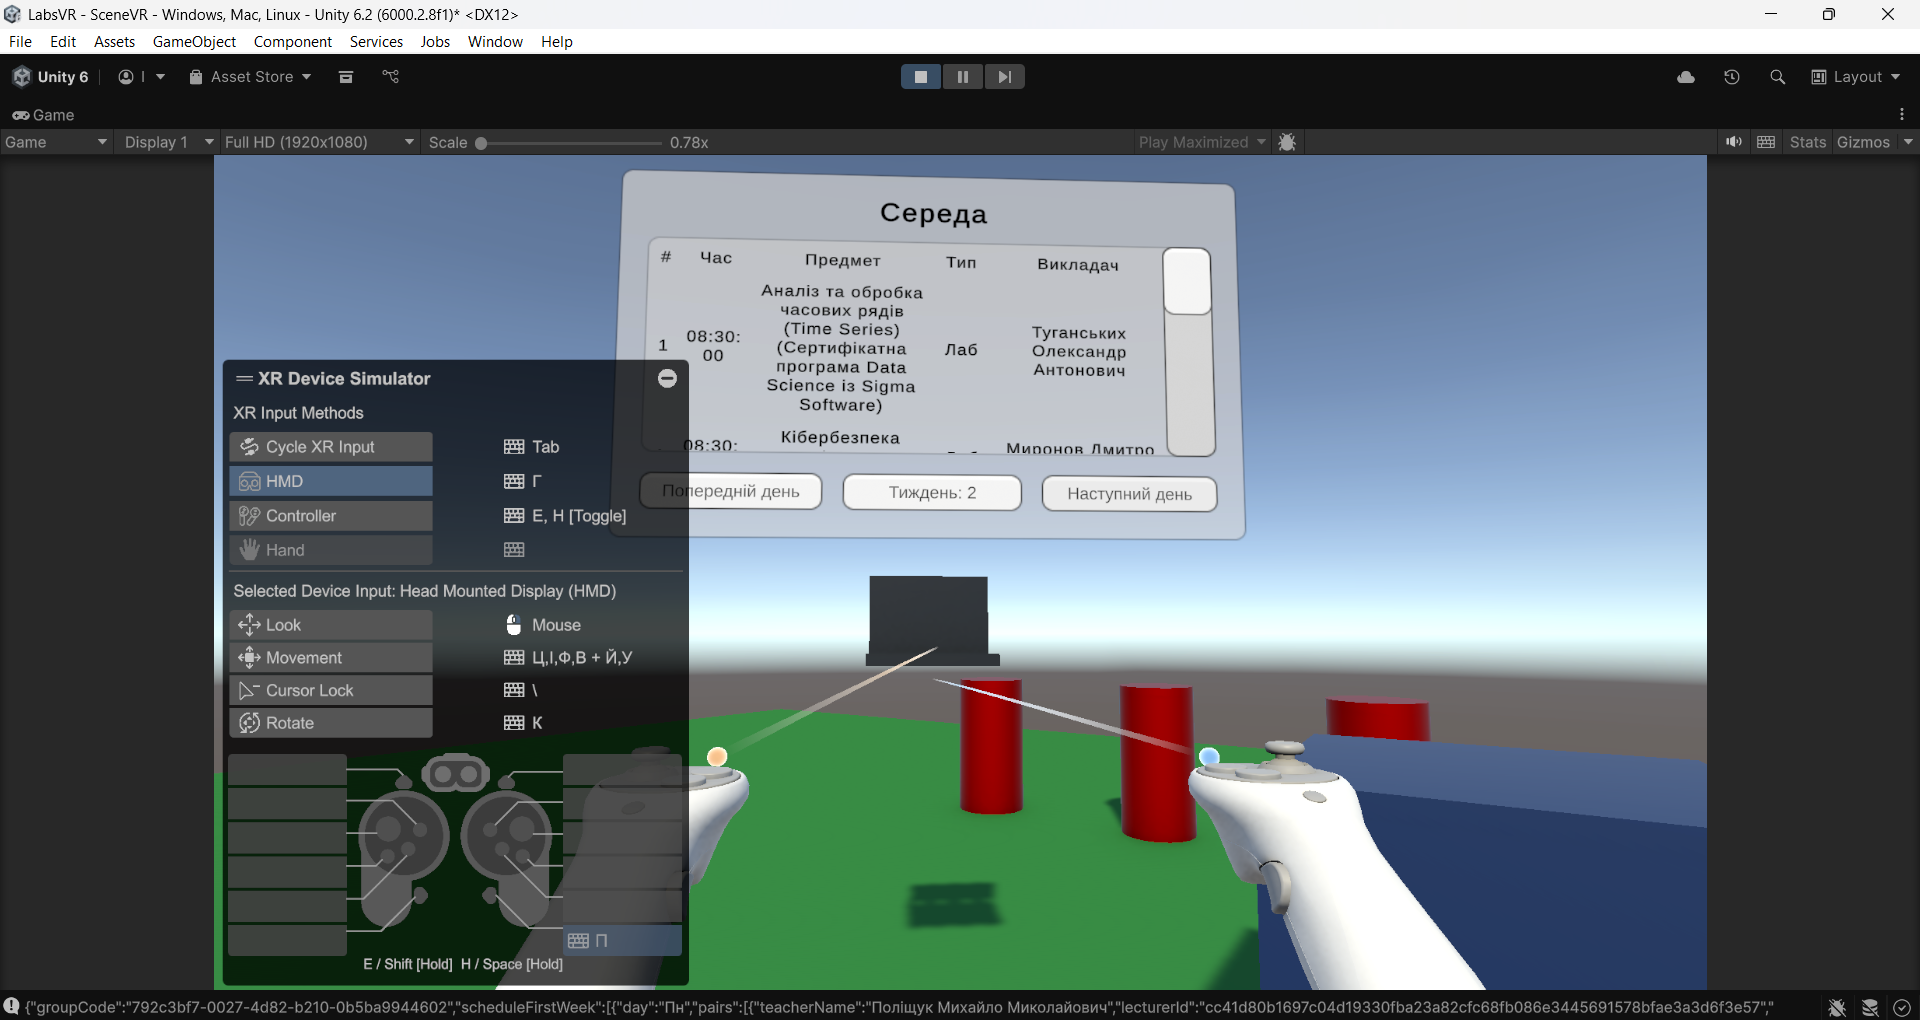
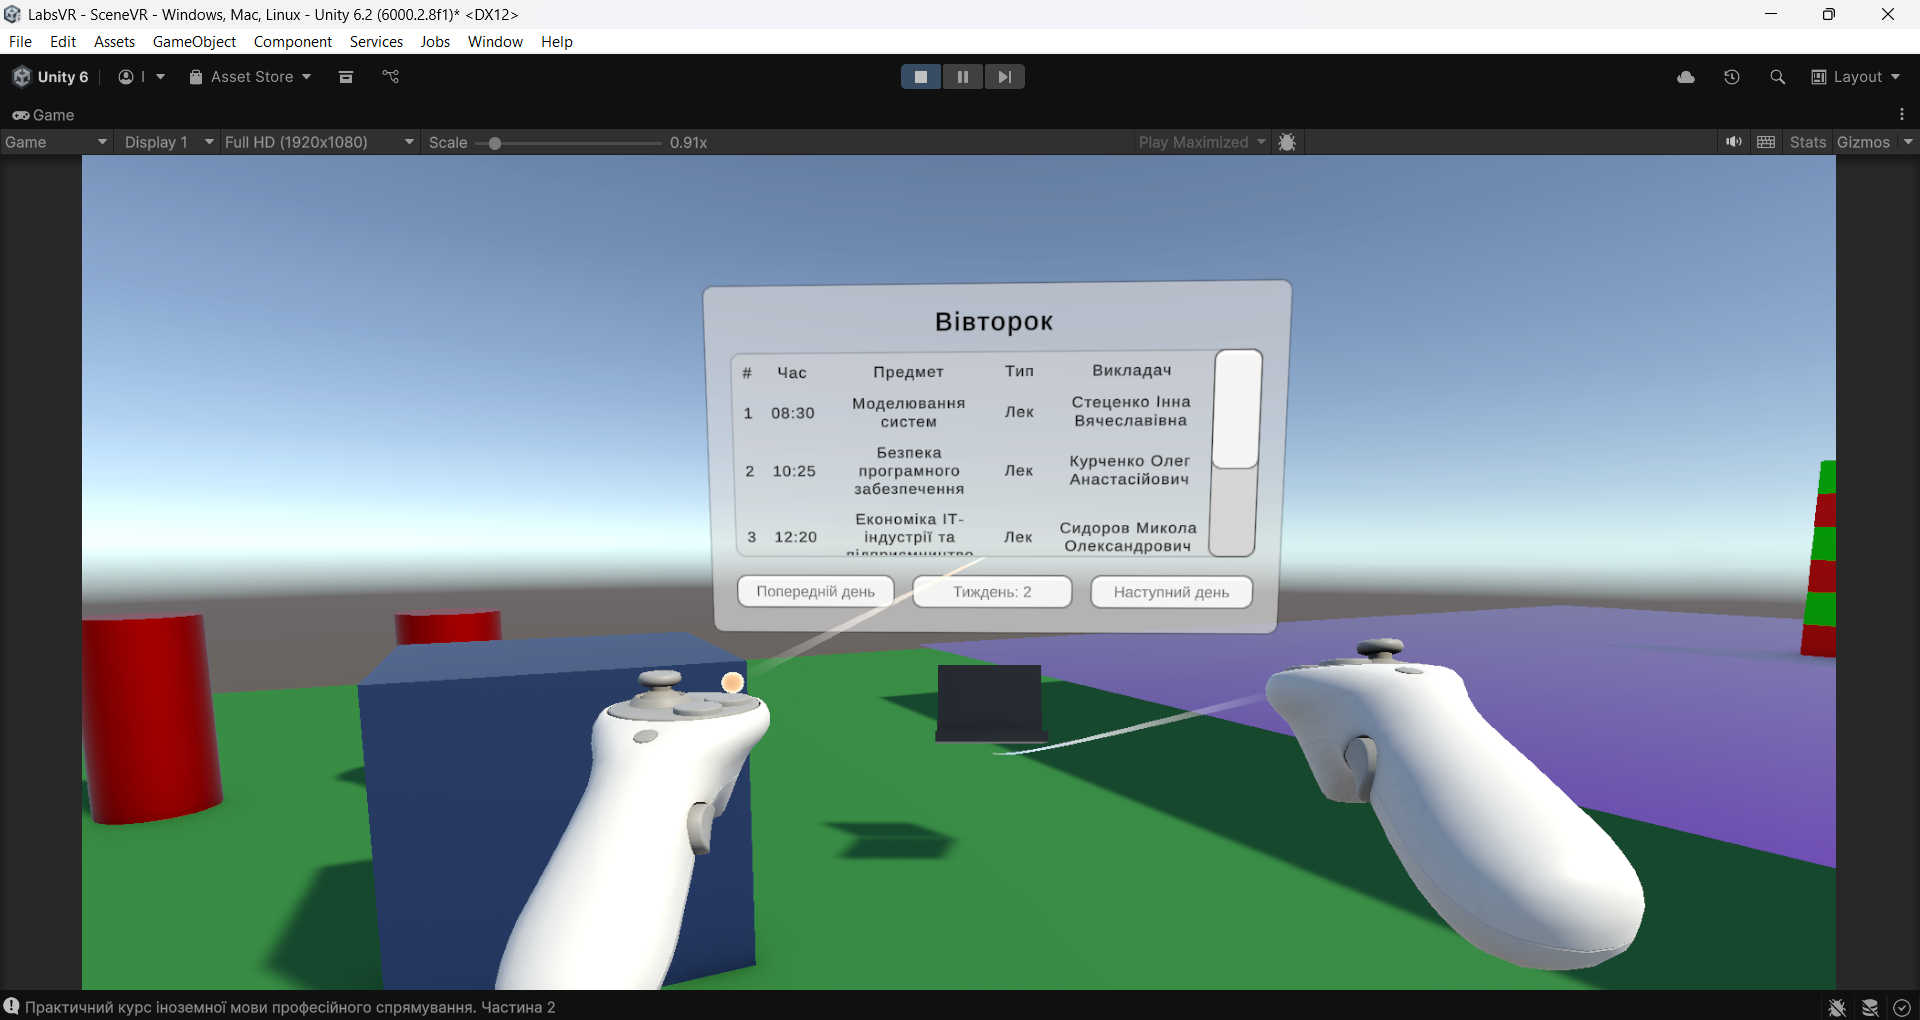
fix bug, rename methods and filter subjects

diff --git a/Assets/Scripts/VR/Schedule/ScheduleManager.cs b/Assets/Scripts/VR/Schedule/ScheduleManager.cs
@@ -1,26 +1,43 @@
 using System;
 using System.Collections;
+using System.Collections.Generic;
 using TMPro;
 using UnityEngine;
 using UnityEngine.Networking;
 
 public class ScheduleManager : MonoBehaviour
 {
-    private const string scheduleUrl =
-        "https://api.campus.kpi.ua/schedule/lessons?groupId=792c3bf7-0027-4d82-b210-0b5ba9944602";
+    private const string baseUrl = "https://api.campus.kpi.ua/";
+    private const string groupId = "792c3bf7-0027-4d82-b210-0b5ba9944602";
 
-    private const string currentTimeUrl = "https://api.campus.kpi.ua/time/current";
+    private const string currentTimeUrl = baseUrl + "time/current/";
+    private const string scheduleUrl = baseUrl + "schedule/lessons?groupId=" + groupId;
+
+    
     [SerializeField] private TMP_Text dayLabel;
     [SerializeField] private Transform scheduleContainer;
     [SerializeField] private GameObject headingRowPrefab;
     [SerializeField] private GameObject lessonRowPrefab;
     [SerializeField] private TMP_Text switchWeekButtonLabel;
-    private CurrentTime currentTime;
+
+
     private int dayToDisplay = 1;
     private bool isFirstWeek = true;
 
-
+    private CurrentTime currentTime;
     private Schedule schedule;
+
+    private HashSet<string> subjects = new HashSet<string>
+    {
+        "Розроблення VR/AR застосунків",
+        "Моделювання систем",
+        "Безпека програмного забезпечення",
+        "Економіка ІТ-індустрії та підприємництво",
+        "Права і свободи людини",
+        "Практичний курс іноземної мови професійного спрямування. Частина 2",
+        "Розробка програмного забезпечення. Проєктний та програмний менеджмент",
+        "Основи комп’ютерного моделювання"
+    };
 
 
     private void Start()
@@ -56,7 +73,7 @@ public class ScheduleManager : MonoBehaviour
         }
     }
 
-    public void incrementDay()
+    public void IncrementDay()
     {
         if (dayToDisplay == 6)
         {
@@ -68,10 +85,10 @@ public class ScheduleManager : MonoBehaviour
             dayToDisplay += 1;
         }
 
-        displayDaySchedule();
+        DisplayDaySchedule();
     }
 
-    public void decrementDay()
+    public void DecrementDay()
     {
         if (dayToDisplay == 1)
         {
@@ -83,27 +100,34 @@ public class ScheduleManager : MonoBehaviour
             dayToDisplay -= 1;
         }
 
-        displayDaySchedule();
+        DisplayDaySchedule();
     }
 
-    public void toggleWeek()
+    public void ToggleWeek()
     {
         isFirstWeek = !isFirstWeek;
-        displayDaySchedule();
+        DisplayDaySchedule();
     }
 
     private void ParseScheduleJson(string jsonString)
     {
         schedule = JsonUtility.FromJson<Schedule>(jsonString);
 
+        var subjects = Schedule.GetAllUniqueSubjects(schedule);
+
+        foreach (var subject in subjects)
+        {
+            Debug.Log(subject);
+        }
+
         isFirstWeek = currentTime.currentWeek == 1;
 
         dayToDisplay = currentTime.currentDay;
 
-        displayDaySchedule();
+        DisplayDaySchedule();
     }
 
-    private void setDayLabel()
+    private void SetDayLabel()
     {
         switch (dayToDisplay)
         {
@@ -133,8 +157,28 @@ public class ScheduleManager : MonoBehaviour
                 break;
         }
     }
+    
+    private int GetPairNumber(TimeSpan time)
+    {
+        if (time < new TimeSpan(8, 30, 0))
+            return 0;
+        else if (time < new TimeSpan(10, 25, 0))
+            return 1;
+        else if (time < new TimeSpan(12, 20, 0))
+            return 2;
+        else if (time < new TimeSpan(14, 15, 0))
+            return 3;
+        else if (time < new TimeSpan(16, 10, 0))
+            return 4;
+        else if (time < new TimeSpan(18, 05, 0))
+            return 5;
+        else if (time < new TimeSpan(20, 0, 0))
+            return 6;
+        else
+            return 7;
+    }
 
-    private void setWeekLabel()
+    private void SetWeekLabel()
     {
         if (isFirstWeek)
             switchWeekButtonLabel.text = "Тиждень: 1";
@@ -142,25 +186,25 @@ public class ScheduleManager : MonoBehaviour
             switchWeekButtonLabel.text = "Тиждень: 2";
     }
 
-    private DaySchedule[] getWeekSchedule()
+    private DaySchedule[] GetWeekSchedule()
     {
         if (isFirstWeek) return schedule.scheduleFirstWeek;
 
         return schedule.scheduleSecondWeek;
     }
 
-    private DaySchedule getDaySchedule(int day)
+    private DaySchedule GetDaySchedule(int day)
     {
-        var weekSchedule = getWeekSchedule();
+        var weekSchedule = GetWeekSchedule();
         return weekSchedule[day - 1];
     }
 
-    private void removeRows()
+    private void RemoveRows()
     {
         foreach (Transform child in scheduleContainer) Destroy(child.gameObject);
     }
 
-    private void addNewRows(DaySchedule daySchedule)
+    private void AddNewRows(DaySchedule daySchedule)
     {
         var headingRow = Instantiate(headingRowPrefab, scheduleContainer);
 
@@ -170,23 +214,28 @@ public class ScheduleManager : MonoBehaviour
 
             var texts = row.GetComponentsInChildren<TMP_Text>();
 
-            texts[1].text = pair.time;
+            var pairTime = DateTime.Parse(pair.time).TimeOfDay;
+
+            texts[0].text = GetPairNumber(pairTime).ToString();
+            texts[1].text = pairTime.ToString("hh\\:mm");
             texts[2].text = pair.name;
             texts[3].text = pair.type;
             texts[4].text = pair.teacherName;
         }
     }
 
-    private void displayDaySchedule()
+    private void DisplayDaySchedule()
     {
-        setDayLabel();
-        setWeekLabel();
+        SetDayLabel();
+        SetWeekLabel();
 
-        var currentDaySchedule = getDaySchedule(dayToDisplay);
+        var currentDaySchedule = GetDaySchedule(dayToDisplay);
 
-        removeRows();
+        currentDaySchedule.FilterPairs(subjects);
 
-        addNewRows(currentDaySchedule);
+        RemoveRows();
+
+        AddNewRows(currentDaySchedule);
     }
 
     private void ParseCurrentTimeJson(string jsonString)

diff --git a/Assets/Scripts/VR/Schedule/ScheduleFormat.cs b/Assets/Scripts/VR/Schedule/ScheduleFormat.cs
@@ -7,6 +7,22 @@ public class Schedule
     public string groupCode;
     public DaySchedule[] scheduleFirstWeek;
     public DaySchedule[] scheduleSecondWeek;
+
+    public static List<string> GetAllUniqueSubjects(Schedule schedule)
+    {
+        HashSet<string> set = new HashSet<string>();
+
+        foreach (var day in schedule.scheduleFirstWeek)
+            foreach (var pair in day.pairs)
+                set.Add(pair.name);
+
+        foreach (var day in schedule.scheduleSecondWeek)
+            foreach (var pair in day.pairs)
+                set.Add(pair.name);
+
+        return new List<string>(set);
+    }
+
 }
 
 [Serializable]
